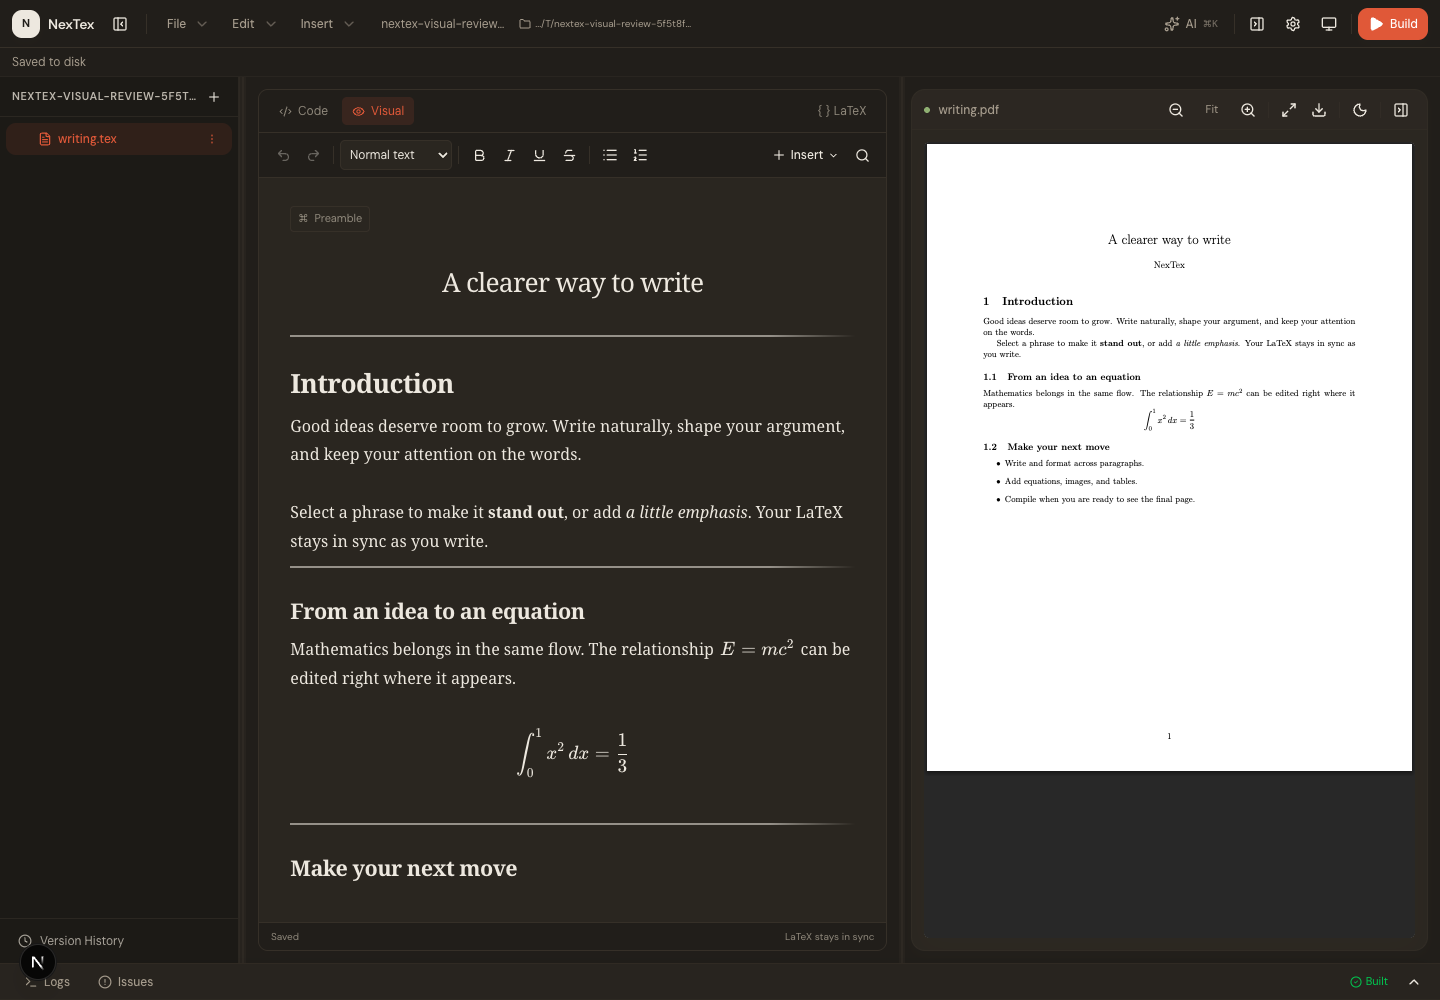
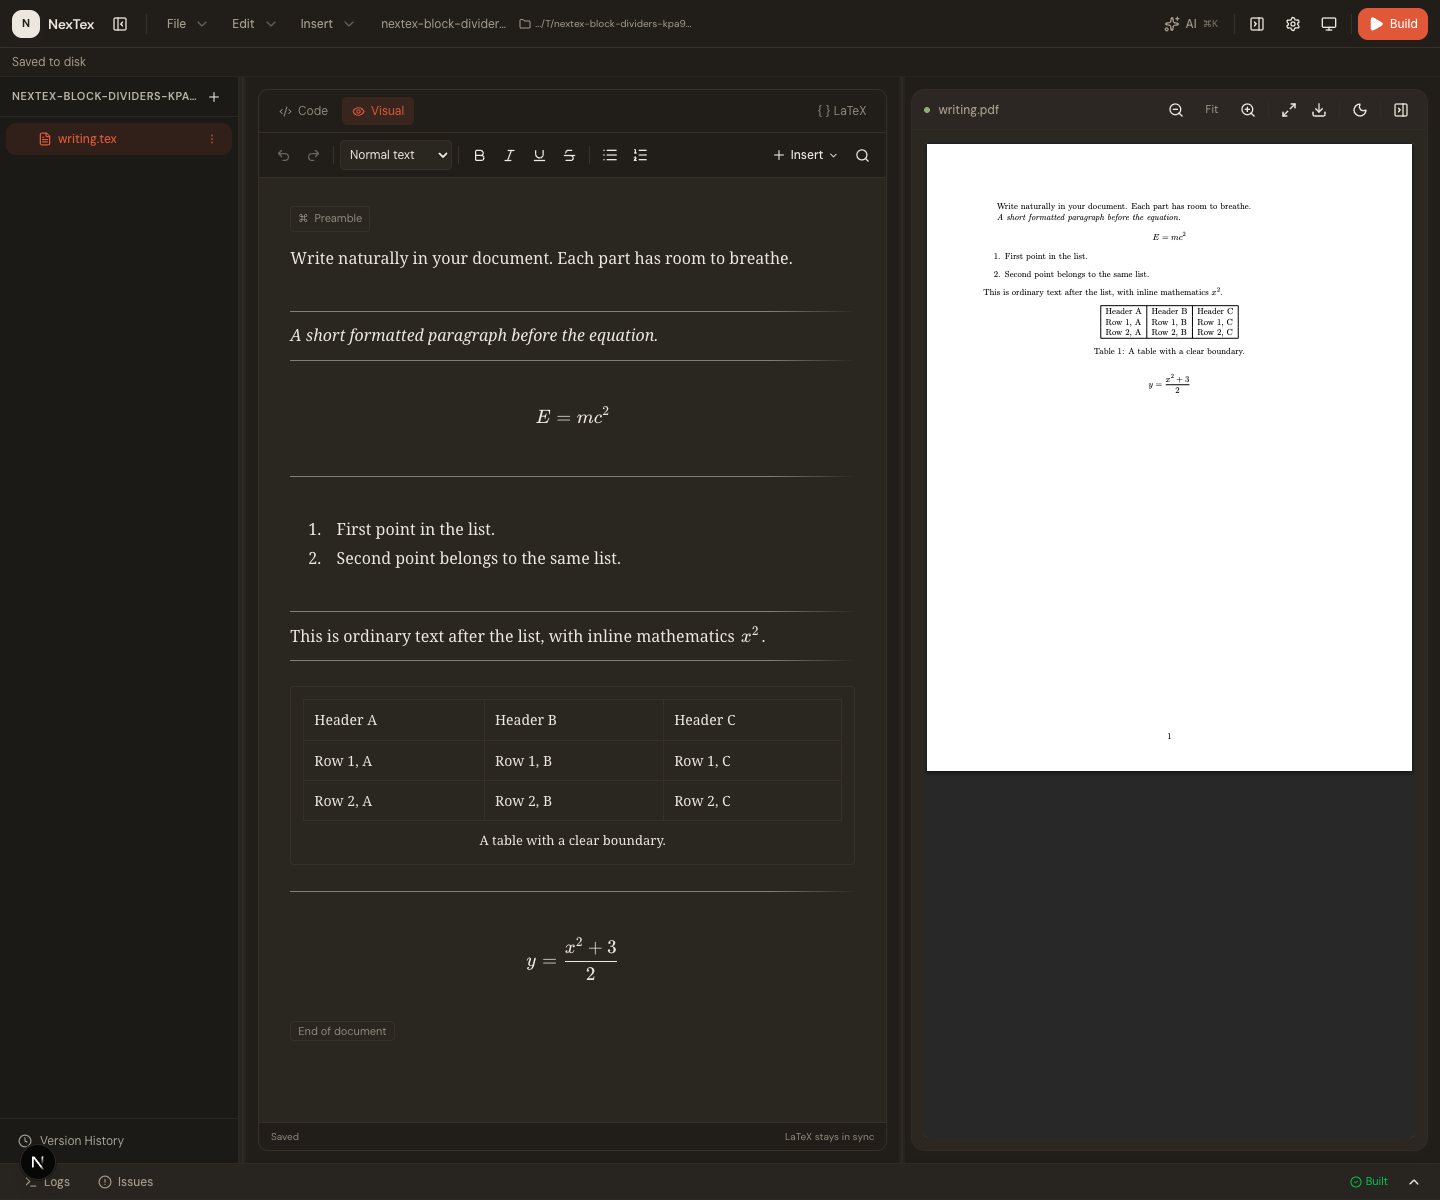
fix: separate visual content blocks beyond headings

diff --git a/frontend/lib/visual-source/block-boundaries.ts b/frontend/lib/visual-source/block-boundaries.ts
@@ -1,0 +1,74 @@
+import type { VisualSpan } from './types'
+
+interface Range { from:number; to:number }
+const replacementKinds = new Set<VisualSpan['kind']>(['hidden','math','reference','preamble','figure','table','list-marker','environment','title'])
+
+function lineStart(source:string,at:number):number { return source.lastIndexOf('\n',at-1)+1 }
+function lineEnd(source:string,at:number):number { const end = source.indexOf('\n',at); return end < 0 ? source.length : end }
+
+/** Only scanner-confirmed, balanced top-level lists form an indivisible block. */
+function listRanges(source:string,spans:VisualSpan[]):Range[] {
+  const result:Range[] = [], stack:{from:number;name:string}[] = []
+  for (const span of spans) {
+    if (span.kind !== 'environment' || !['itemize','enumerate'].includes(span.value || '')) continue
+    const match = source.slice(span.from,span.to).match(/^\\(begin|end)\s*\{(itemize|enumerate)\}$/)
+    if (!match) continue
+    if (match[1] === 'begin') stack.push({from:span.from,name:match[2]})
+    else {
+      const opening = stack.pop()
+      if (!opening || opening.name !== match[2]) { stack.length = 0; continue }
+      if (!stack.length) result.push({from:opening.from,to:span.to})
+    }
+  }
+  return result
+}
+
+/** Original-source line starts for separators; this never edits or serializes the document. */
+export function getVisualBlockStarts(source:string,spans:VisualSpan[]):number[] {
+  const ordered = [...spans].sort((a,b) => a.from-b.from || b.to-a.to)
+  const ignored = ordered.filter(span => span.kind === 'comment' || span.kind === 'preamble' || (span.kind === 'environment' && span.value === 'document'))
+  const lists = listRanges(source,ordered)
+  const hiddenBefore = new Map(ordered.filter(span => span.kind === 'hidden').map(span => [span.to,span.from]))
+  const hiddenAfter = new Map(ordered.filter(span => span.kind === 'hidden').map(span => [span.from,span.to]))
+  const headings = ordered.filter(span => span.kind === 'heading').map(span => ({from:hiddenBefore.get(span.from) ?? span.from,to:hiddenAfter.get(span.to) ?? span.to}))
+  const protectedRanges:Range[] = [...lists,...headings,...ordered.filter(span => span.kind === 'code' || replacementKinds.has(span.kind))]
+    .sort((a,b) => a.from-b.from || b.to-a.to)
+  const withoutComments = (from:number,to:number) => {
+    let text = '', at = from
+    for (const span of ignored) {
+      if (span.to <= at || span.from >= to) continue
+      text += source.slice(at,Math.max(at,span.from)); at = Math.max(at,span.to)
+    }
+    return text+source.slice(Math.min(at,to),to)
+  }
+  const standalone = (range:Range) => !source.slice(lineStart(source,range.from),range.from).trim() && !withoutComments(range.to,lineEnd(source,range.to)).trim()
+  const atomic = [...lists,...ordered.filter(span => ['figure','table'].includes(span.kind) || (span.kind === 'math' && /^(?:\$\$|\\\[|\\begin\b)/.test(source.slice(span.from,span.to))))].filter(standalone)
+  const atomicStarts = new Set(atomic.map(range => range.from))
+  const headingStarts = new Set([...headings.map(range => range.from),...ordered.filter(span => span.kind === 'title').map(span => span.from)])
+  const starts = new Set<number>()
+  let seenContent = false, blank = false, afterAtomic = false, protectedIndex = 0, protectedThrough = 0
+  for (let start=0;start<source.length;) {
+    const end = lineEnd(source,start), next = end+1
+    while (protectedIndex < protectedRanges.length && protectedRanges[protectedIndex].from < start) {
+      protectedThrough = Math.max(protectedThrough,protectedRanges[protectedIndex++].to)
+    }
+    // Skipping whole continuation lines also prevents blank lines inside widgets becoming paragraphs.
+    if (protectedThrough > start) { start = next; continue }
+    const rawLine = source.slice(start,end)
+    if (!rawLine.trim()) { blank = true; start = next; continue }
+    if (!withoutComments(start,end).trim()) { start = next; continue }
+    let content = start
+    while (content < end) {
+      if (/\s/.test(source[content])) { content++; continue }
+      const skip = ignored.find(span => span.from <= content && span.to > content)
+      if (!skip) break
+      content = skip.to
+    }
+    const structural = atomicStarts.has(content)
+    const heading = headingStarts.has(content)
+    if (seenContent && (blank || afterAtomic || structural || heading)) starts.add(start)
+    seenContent = true; blank = false; afterAtomic = Boolean(structural)
+    start = next
+  }
+  return [...starts]
+}

diff --git a/frontend/lib/visual-source/block-boundaries.test.ts b/frontend/lib/visual-source/block-boundaries.test.ts
@@ -1,0 +1,63 @@
+import { describe, expect, it } from 'vitest'
+import { scanVisualSource } from './scanner'
+import { getVisualBlockStarts } from './block-boundaries'
+
+const starts = (source:string) => getVisualBlockStarts(source,scanVisualSource(source))
+
+describe('visual content block separators', () => {
+  it('separates paragraphs while leaving source-continuation lines together', () => {
+    const source = 'First line\ncontinued here\n\n  Second paragraph\nstill the same\n\nThird'
+    expect(starts(source)).toEqual([source.indexOf('  Second'),source.indexOf('Third')])
+  })
+  it('separates adjacent prose, display math, a whole nested list, a table and following prose', () => {
+    const equation = '\\begin{equation}\nx=1\n\\end{equation}'
+    const list = '\\begin{itemize}\n\\item One\n\n\\item Two\n\\begin{enumerate}\n\\item Nested\n\\end{enumerate}\n\\end{itemize}'
+    const table = '\\begin{table}\n\\begin{tabular}{lr}\nA & B \\\\\n\\end{tabular}\n\\end{table}'
+    const source = `Prose\n${equation}\nAfter math\n${list}\n${table}\nFinal prose`
+    expect(starts(source)).toEqual([source.indexOf(equation),source.indexOf('After math'),source.indexOf(list),source.indexOf(table),source.indexOf('Final prose')])
+  })
+  it('does not count a preamble or trailing document boundary as content', () => {
+    const source = '\\documentclass{article}\n\n% preamble comment\n\\begin{document}\n\nFirst\n\nSecond\n\n\\end{document}\n'
+    expect(starts(source)).toEqual([source.indexOf('Second')])
+  })
+  it('does not create dividers for comment-only gaps or put them on comments', () => {
+    const source = 'First\n% comment\n% another\nContinuation\n\n% explanation\n\nSecond'
+    expect(starts(source)).toEqual([source.indexOf('Second')])
+  })
+  it('treats escaped percent as paragraph content and preserves CRLF line offsets', () => {
+    const source = '% intro\r\n\\% first\r\ncontinued\r\n\r\n  Second\r\n'
+    expect(starts(source)).toEqual([source.indexOf('  Second')])
+  })
+  it('keeps heading and immediately following prose together, allowing a later paragraph split', () => {
+    const source = 'Introduction\n\\section{Heading}\nAttached prose\n\nNext paragraph\n\\subsection{Next heading}\nMore attached prose'
+    expect(starts(source)).toEqual([source.indexOf('\\section'),source.indexOf('Next paragraph'),source.indexOf('\\subsection')])
+  })
+  it('counts title as the first content block and does not divide its immediate prose', () => {
+    const source = '\\title{A title}\n\\begin{document}\n\\maketitle\nAttached\n\nParagraph\n\\end{document}'
+    expect(starts(source)).toEqual([source.indexOf('Paragraph')])
+  })
+  it('separates single-line display math and figure widgets, leaving inline math in prose', () => {
+    const figure = '\\begin{figure}\\includegraphics{a.png}\\end{figure}'
+    const source = `First $inline$\ncontinued \\(x\\)\n\\[display\\]\nAfter\n${figure}\nEnd`
+    expect(starts(source)).toEqual([source.indexOf('\\[display'),source.indexOf('After'),source.indexOf(figure),source.indexOf('End')])
+  })
+  it('does not split opaque environments, unsupported lists, or multiline widget interiors', () => {
+    const source = 'First\n\n\\begin{custom}\nInside\n\nStill inside\n\\end{custom}\n\nNext\n\\begin{enumerate}[start=4]\n\\item One\n\n\\item Two\n\\end{enumerate}\n\nLast'
+    expect(starts(source)).toEqual([source.indexOf('\\begin{custom}'),source.indexOf('Next'),source.indexOf('Last')])
+  })
+  it('never emits a separator inside a multiline replacement even with blank lines', () => {
+    const source = 'First\n\n$math\n\ncontinued$\nFollowing\n\nLast'
+    expect(starts(source)).toEqual([source.indexOf('$math'),source.indexOf('Last')])
+  })
+  it('returns line starts before indented widgets and never starts a list item block', () => {
+    const source = '\\begin{itemize}\n\\item First\n\\item Second\n\\end{itemize}\n  \\[x\\]\nTail'
+    expect(starts(source)).toEqual([source.indexOf('  \\['),source.indexOf('Tail')])
+  })
+  it('does not mutate caller spans or source', () => {
+    const source = 'One\n\nTwo', spans = scanVisualSource(source)
+    const snapshot = structuredClone(spans)
+    Object.freeze(spans)
+    expect(getVisualBlockStarts(source,spans)).toEqual([5])
+    expect(spans).toEqual(snapshot)
+  })
+})

diff --git a/frontend/lib/visual-source/decorations.ts b/frontend/lib/visual-source/decorations.ts
@@ -2,6 +2,7 @@ import { StateEffect, StateField, type Extension, type Range } from '@codemirror
 import { Decoration, EditorView, WidgetType, type DecorationSet } from '@codemirror/view'
 import katex from 'katex'
 import { scanVisualSource } from './scanner'
+import { getVisualBlockStarts } from './block-boundaries'
 import type { VisualSpan } from './types'
 import { parseLaTeXToBlocks } from '../visual-editor/parser'
 import { renderInlineLaTeX } from '../visual-editor/inline'
@@ -14,6 +15,19 @@ export interface VisualDecorationOptions {
   assetDirectory: string
   activate: (span: VisualSpan, view: EditorView) => void
 }
+
+class BlockDividerWidget extends WidgetType {
+  eq() { return true }
+  get estimatedHeight() { return 20 }
+  toDOM() {
+    const element=document.createElement('div')
+    element.className='visual-block-divider'
+    element.setAttribute('aria-hidden','true')
+    return element
+  }
+  ignoreEvent() { return true }
+}
+const blockDivider = new BlockDividerWidget()
 
 class PreviewWidget extends WidgetType {
   constructor(readonly span: VisualSpan, readonly source: string, readonly options: VisualDecorationOptions) { super() }
@@ -82,6 +96,10 @@ export interface VisualFieldValue { decorations: DecorationSet; atomic: Decorati
 export function visualDecorations(options: VisualDecorationOptions) {
   const build = (source:string, revealed:VisualFieldValue['revealed']):VisualFieldValue => {
     const spans = scanVisualSource(source), ranges:Range<Decoration>[] = [], atomic:Range<Decoration>[] = []
+    for (const from of getVisualBlockStarts(source,spans)) {
+      if (revealed && from >= revealed.from && from < revealed.to) continue
+      ranges.push(Decoration.widget({widget:blockDivider,block:true,side:-1}).range(from))
+    }
     for (const span of spans) {
       if (span.from >= span.to || span.from < 0 || span.to > source.length) continue
       if (revealed && span.from < revealed.to && span.to > revealed.from) continue

diff --git a/frontend/e2e/visual-editor.spec.ts b/frontend/e2e/visual-editor.spec.ts
@@ -61,6 +61,19 @@ test('continuous typing preserves macros and source through save and mode switch
   await build(page)
 })
 
+test('separates normal content blocks while preserving typing and list grouping',async({page,request})=>{
+  const original=wrap('First paragraph.\n\nSecond $x$ paragraph.\n\\[\ny = x^2\n\\]\n\\textit{Styled paragraph.}\n\\begin{enumerate}\n\\item First point\n\\item Second point\n\\end{enumerate}\nAfter list.\n\\begin{table}\n\\begin{tabular}{lc}\nA & B \\\\\n\\end{tabular}\n\\end{table}\n\\[\nz = 2\n\\]')
+  await createDocument(page,request,original)
+  await page.getByTitle('Show LaTeX alongside the visual editor').click()
+  const editor=page.getByTestId('visual-document')
+  await expect(editor.locator('.visual-block-divider')).toHaveCount(7)
+  await expect(editor.locator('.visual-heading')).toHaveCount(0)
+  await selectWord(editor,'After list.');await page.keyboard.type('Edited after the list.')
+  await page.getByTestId('visual-toolbar-code-tab').click()
+  await expect(page.getByTestId('latex-source')).toHaveValue(original.replace('After list.','Edited after the list.'))
+  await build(page)
+})
+
 test('typing with bold on and off retains prior formatting and allows partial removal',async({page,request})=>{
   await createDocument(page,request,wrap('Typing'))
   const editor=page.getByTestId('visual-document')

diff --git a/frontend/app/globals.css b/frontend/app/globals.css
@@ -373,10 +373,11 @@
 .visual-source-host .cm-scroller { overflow:auto; line-height:1.8; font-family:inherit; }
 .visual-source-host .cm-content { padding:24px clamp(20px,5%,70px) 100px; caret-color:var(--visual-editor-text); }
 .visual-source-host .cm-line { padding:0; }
-.visual-source-host .cm-line:has(.visual-heading) {
-  padding-top:28px;
-  padding-bottom:4px;
-  background:linear-gradient(90deg,color-mix(in srgb,var(--visual-editor-text) 55%,transparent) 0%,color-mix(in srgb,var(--visual-editor-text) 55%,transparent) 85%,transparent) left 10px / 100% 2px no-repeat;
+.visual-block-divider {
+  height:20px;
+  background:linear-gradient(90deg,color-mix(in srgb,var(--visual-editor-text) 45%,transparent) 0%,color-mix(in srgb,var(--visual-editor-text) 45%,transparent) 85%,transparent) left center / 100% 1px no-repeat;
+  pointer-events:none;
+  user-select:none;
 }
 .visual-source-host .cm-selectionBackground { background:var(--visual-editor-tool-active) !important; }
 .visual-source-host .cm-cursor { border-left-color:var(--visual-editor-text); }

diff --git a/frontend/lib/visual-editor/visual-editor.test.tsx b/frontend/lib/visual-editor/visual-editor.test.tsx
@@ -16,6 +16,14 @@ beforeEach(()=>{
 afterEach(cleanup)
 
 describe('continuous visual document',()=>{
+  it('separates paragraphs, display equations, lists and tables without changing source',()=>{
+    const original=wrap('First paragraph.\n\nSecond $x$ paragraph.\n\\[\ny = x^2\n\\]\n\\textit{Styled paragraph.}\n\\begin{enumerate}\n\\item First\n\\item Second\n\\end{enumerate}\nAfter list.\n\\begin{table}\n\\begin{tabular}{lc}\nA & B \\\\\n\\end{tabular}\n\\end{table}\n\\[\nz = 2\n\\]')
+    useEditorStore.setState({content:original})
+    const result=render(<VisualEditor/>)
+    expect(result.container.querySelectorAll('.visual-block-divider')).toHaveLength(7)
+    expect(useEditorStore.getState().content).toBe(original)
+    expect(view(result.container).state.doc.toString()).toBe(original)
+  })
   it('publishes typing synchronously and preserves source outside the edit',()=>{
     const original=wrap('An \\emph{original} phrase.\n\nSecond paragraph.\n\\custom{untouched}')
     useEditorStore.setState({content:original})

diff --git a/docs/usage.md b/docs/usage.md
@@ -52,6 +52,7 @@ contracts and compiler behavior are documented in [backend/README.md](../backend
   The file tree creates files/folders, renames them, and confirms deletion.
 - Code mode supports highlighting, indentation, find/replace, snippets, and undo/redo.
   Visual mode is a continuous writing surface with headings, formatting and lists.
+  Dividers separate paragraphs, display equations, lists and tables while you write.
   Click equations, figures or tables to edit them; use the toolbar to insert new ones.
   Both modes share document source and undo history.
 - Visual round trips retain document boundaries, comments, preamble, and untouched
